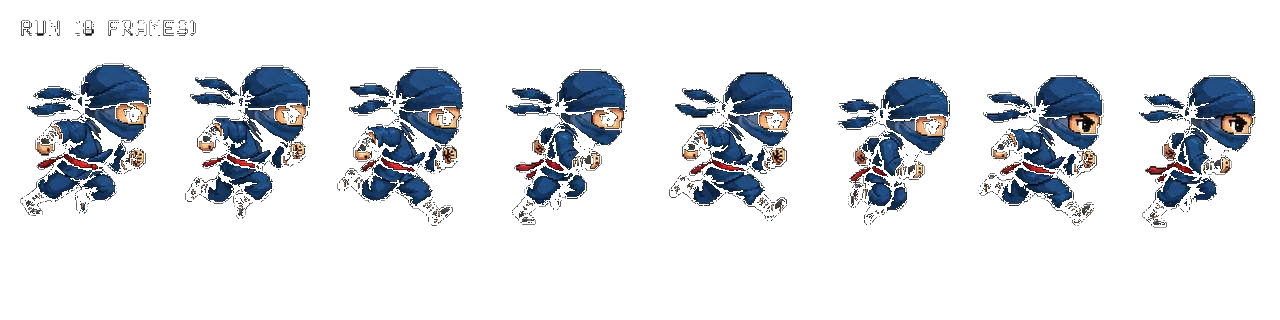
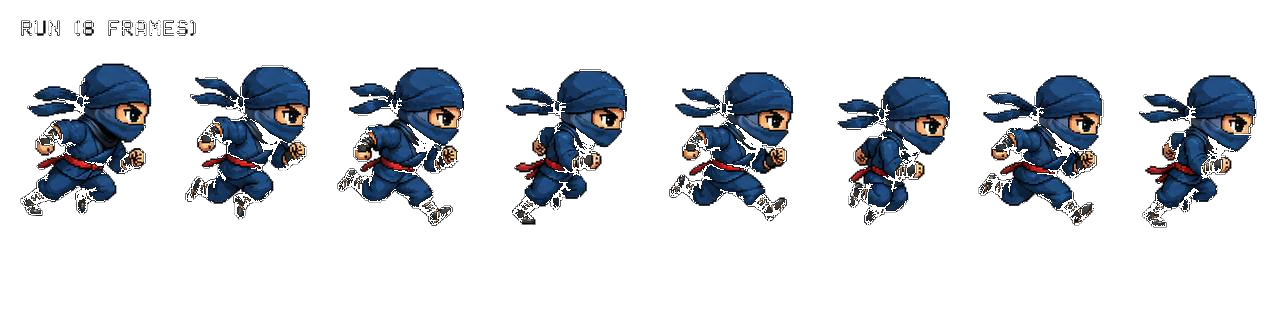
V263: Fix ninja bg removal — conservative tolerance (white 45, black 30, 2-pass fringe >220/<20)

diff --git a/config.js b/config.js
@@ -1,4 +1,4 @@
-window.GAME_VERSION = "V262";
+window.GAME_VERSION = "V263";
 window.HARDCORE_HP_MULTIPLIER = 3.0; 
 window.LEVEL_CLEAR_HEAL_PERCENT = 0.5;
 window.DEBUG_SHOW_HITBOX = false;
